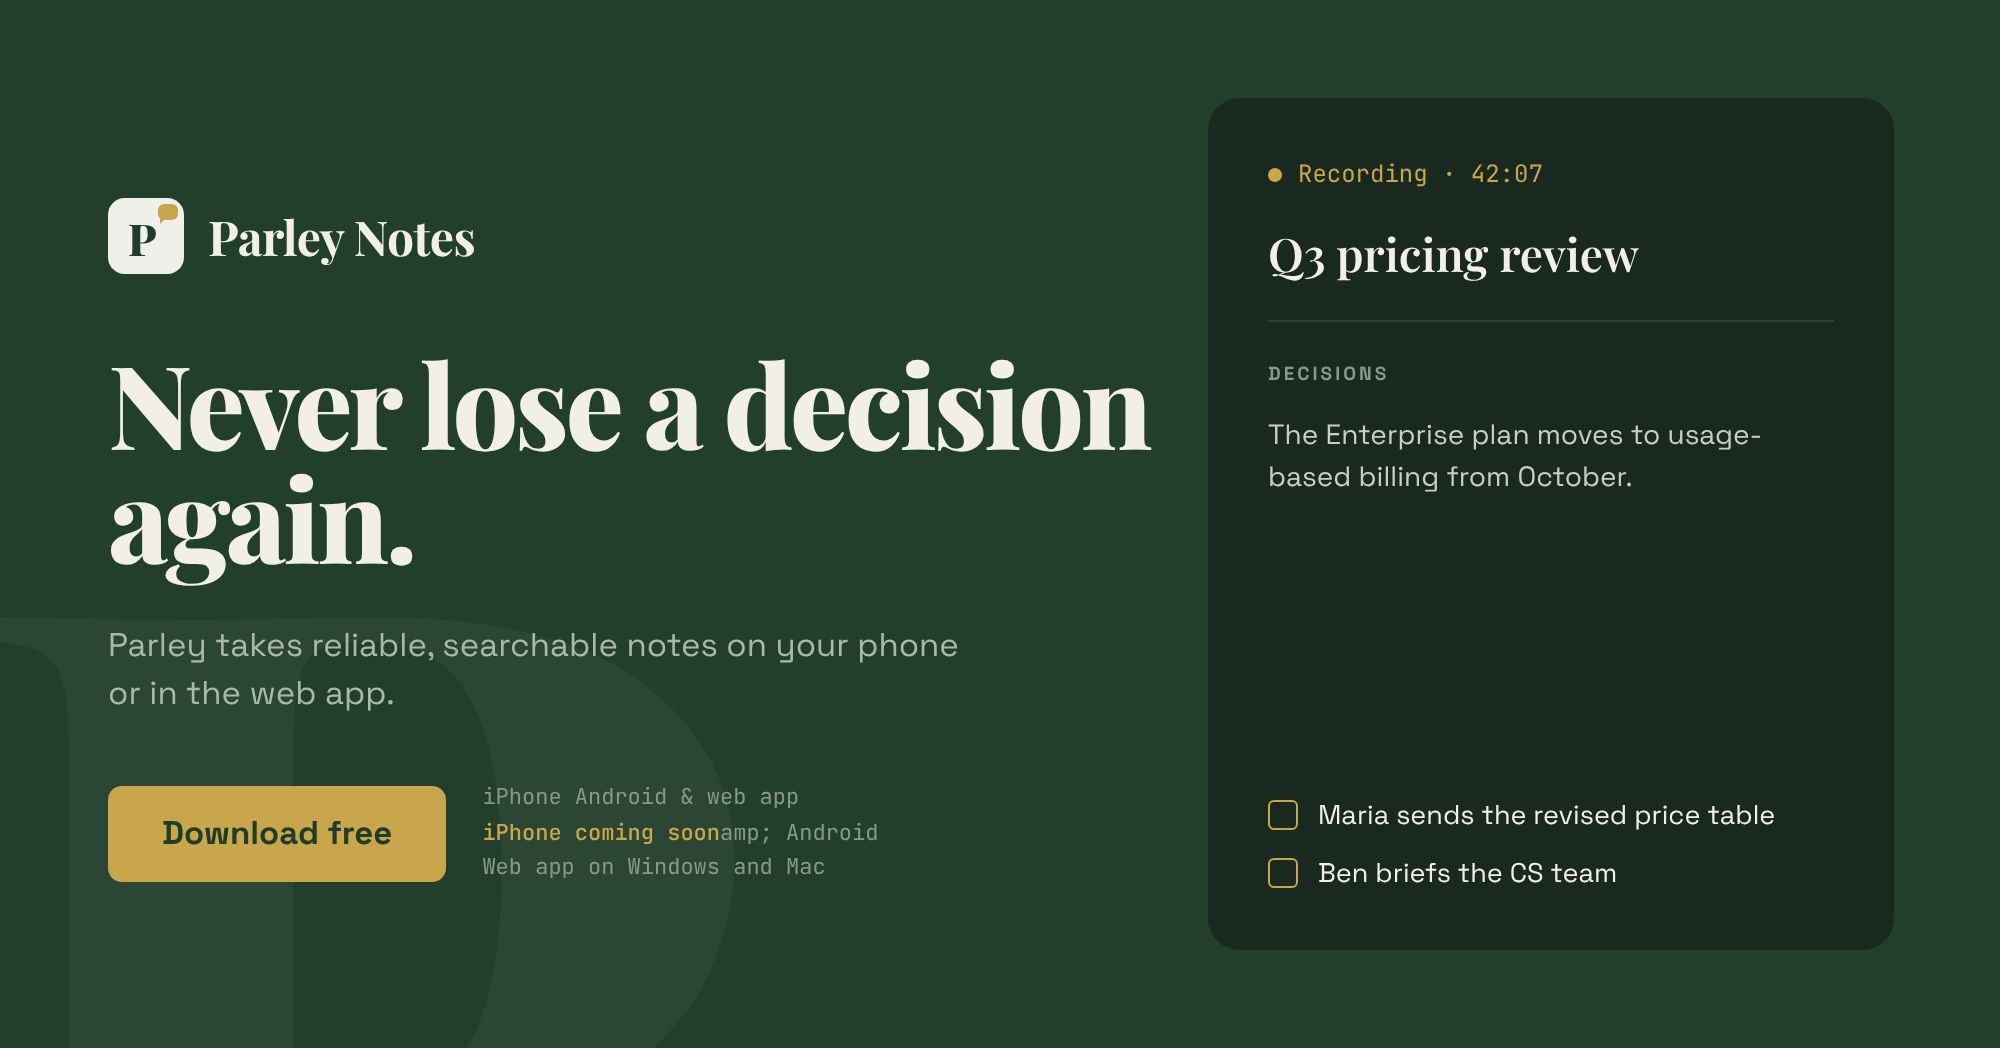
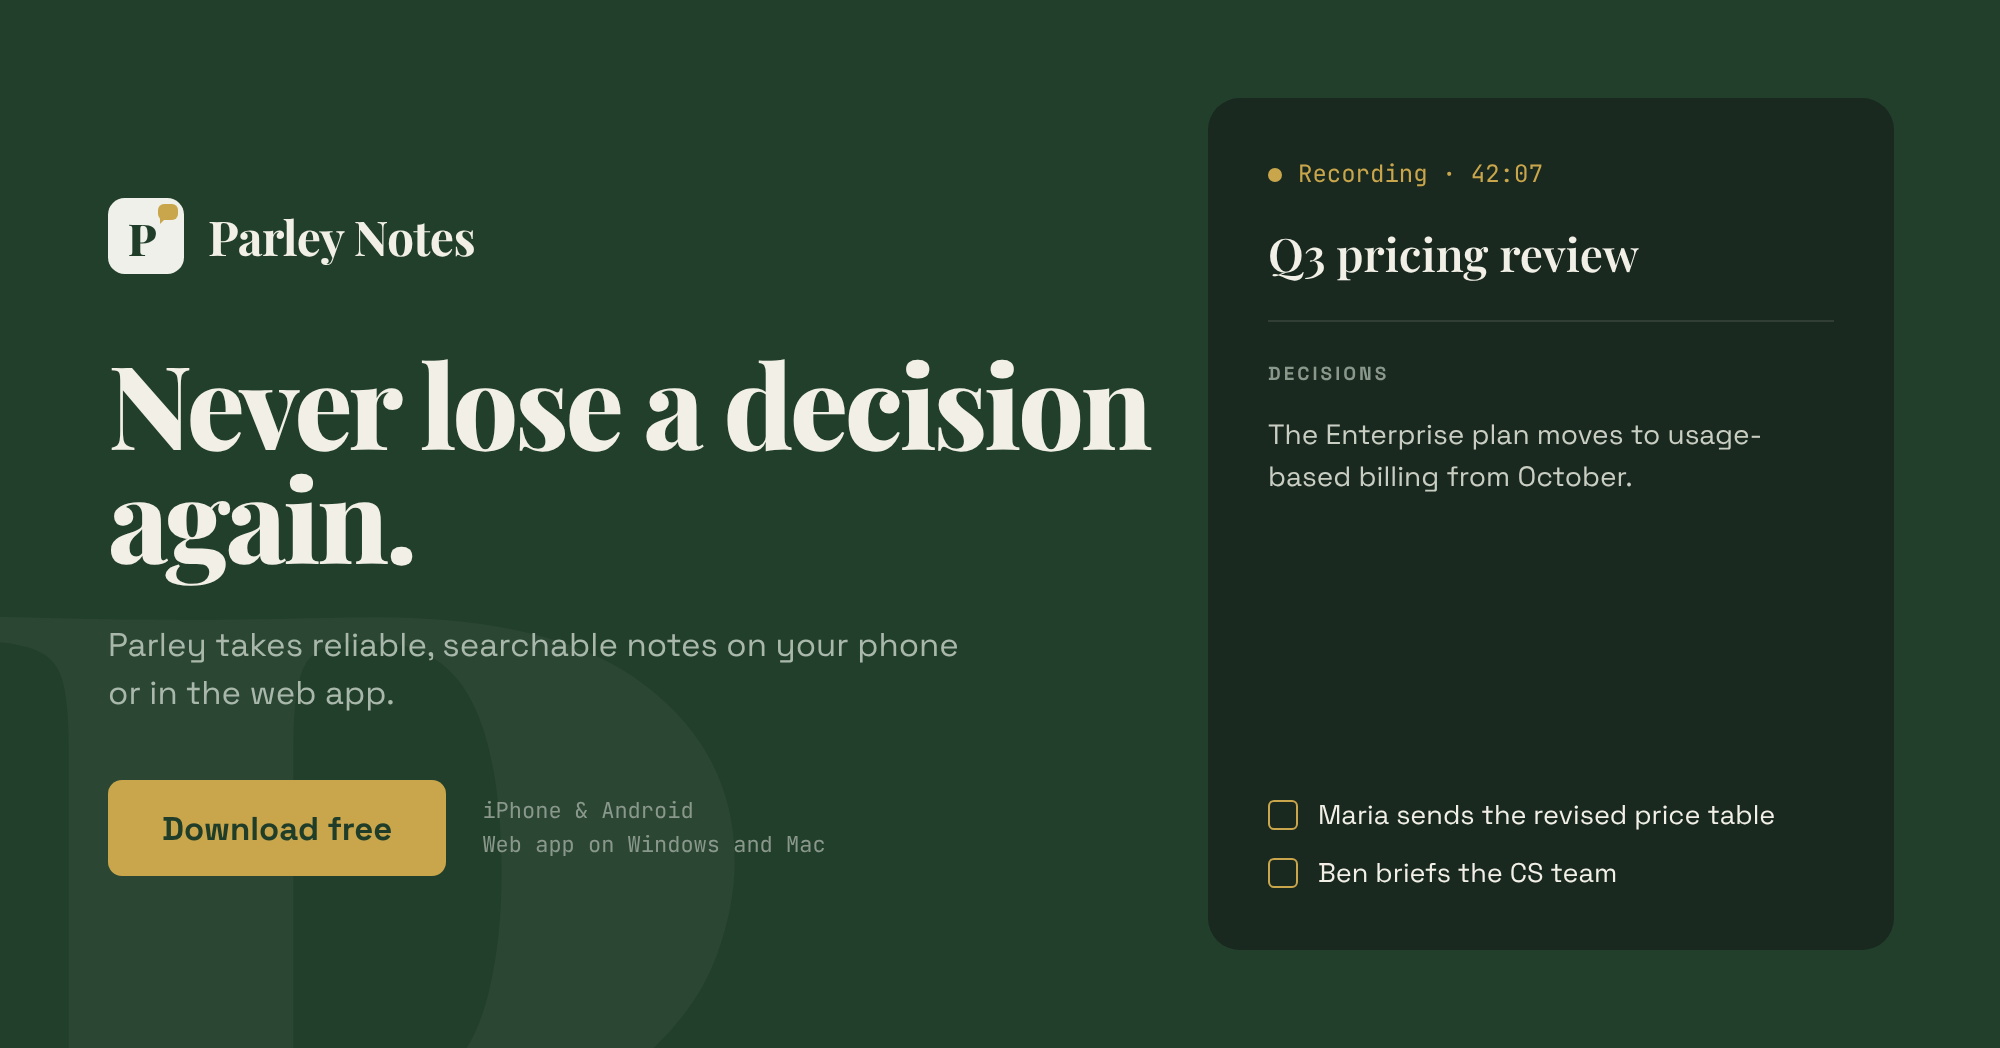
Fix garbled platform line on wide Reddit ad
Claude-Session: https://claude.ai/code/session_015m66gxzJksktda7aom9jNP

Changed region(s): [[0.217, 0.7328, 0.434, 0.855], [0.062, 0.7328, 0.217, 0.855]]

diff --git a/marketing/reddit-ads/src/decision.html b/marketing/reddit-ads/src/decision.html
@@ -20,7 +20,7 @@ h1{font-family:'Playfair Display',serif;font-weight:800;font-size:58px;line-heig
 <div class="left"><div class="brand"><div class="logo">P<i></i></div>Parley Notes</div>
 <h1>Never lose a decision again.</h1>
 <p class="sub">Parley takes reliable, searchable notes on your phone or in the web app.</p>
-<div class="row"><div class="btn">Download free</div><div class="note">iPhone Android &amp; web app<br><b>iPhone coming soon</b>amp; Android<br>Web app on Windows and Mac</div></div></div>
+<div class="row"><div class="btn">Download free</div><div class="note">iPhone &amp; Android<br>Web app on Windows and Mac</div></div></div>
 <div class="card"><div class="rec">Recording · 42:07</div><div class="title">Q3 pricing review</div>
 <div class="lab">DECISIONS</div><div class="d">The Enterprise plan moves to usage-based billing from October.</div>
 <div class="tasks"><div class="t">Maria sends the revised price table</div><div class="t">Ben briefs the CS team</div></div></div>
